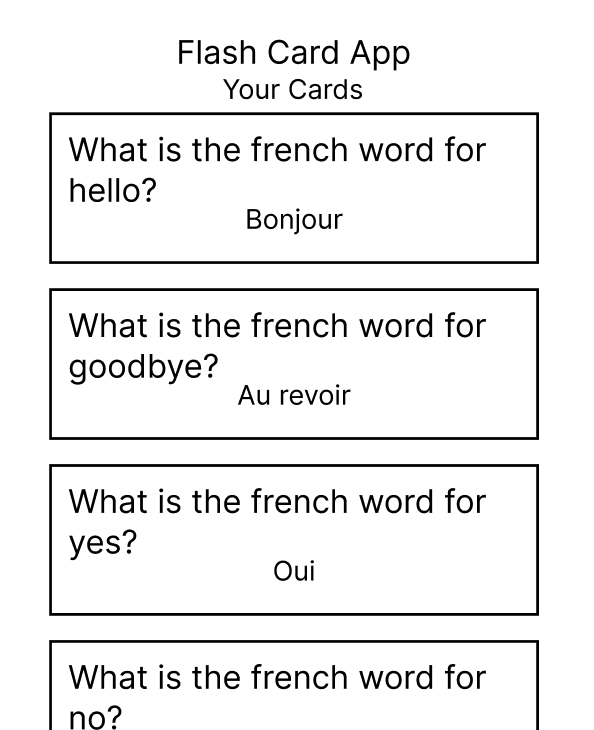
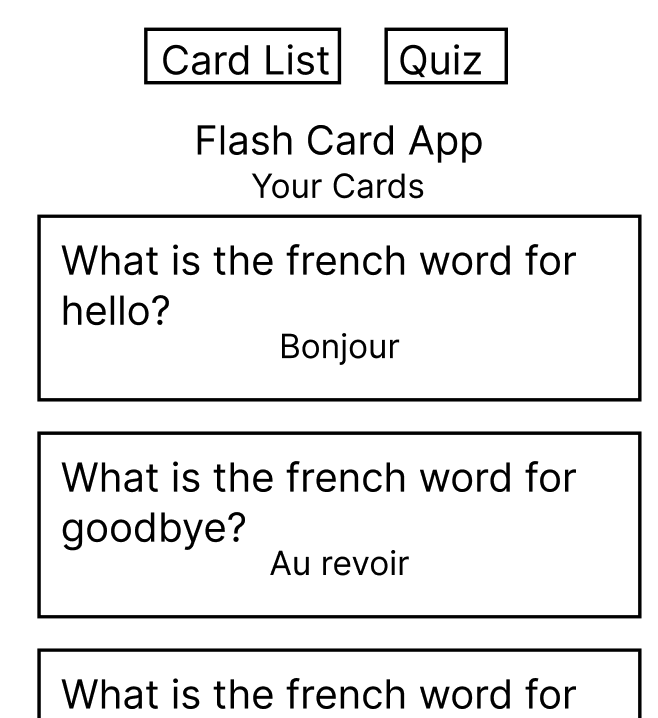
Add link to embed

diff --git a/README.md b/README.md
@@ -7,19 +7,29 @@ Recommended time
 
 ## Coding Goal (45 minutes)
 
-One of [Thought Saver's](app.thoughtsaver.com) core features is Flash Cards. Flash cards are a way of learning, where cards have two sides: a front, e.g. "What is the French word for ‘yes’?", and a back, e.g. "oui".
-Your task is to create a simple flash card app, where users can review cards. There should be two pages:
+One of Thought Saver's core features is flash cards. Flash cards are a way of learning, where cards have two sides: a front, e.g. "What is the French word for ‘yes’?", and a back, e.g. "oui".
+Your task is to create a simplified version of Thought Saver, where users can review cards. It should have the following screens:
 
-1. A list of all the cards, with fronts and backs shown.
-   ![Card List Page](/wireframes/CardListPage.png)
-2. A quiz page, where the user goes through every card in any order. Each card is shown one at a time, in the following steps:
-   - The card front, with one button saying “Reveal Back”
-     ![Quiz Card Front](/wireframes/QuizCardFront.png)
-   - After pressing "Reveal", the card back appears, with two buttons: "Remembered" and "Didn’t remember"
-     ![Quiz Card Front](/wireframes/QuizCardFront.png)
-3. The user goes through all of the cards, pressing ‘remembered’ or ‘didn’t remember’. Once they press ‘remembered’, the card is not shown again. If they press ‘didn’t remember’ the card is sent to the back of the cards that remain to be shown and shown again at the end of the quiz.
-4. Once the cards are all done, the user sees a “Congratulations, you’re done!” screen
-   ![Quiz Finished](/wireframes/QuizFinished.png)
+### Card List
+
+A list of all the cards, with fronts and backs shown, and navigation buttons to go between 'quiz' mode and 'card list' mode
+![Card List Page](/wireframes/CardListPage.png)
+
+### Quiz Page
+
+On clicking 'quiz', go to a quiz page, where the user quizzes on every card. Each card is shown one at a time, in the following steps:
+
+- The card front, with one button saying “Reveal Back”
+  ![Quiz Card Front](/wireframes/QuizCardFront.png)
+- After pressing "Reveal", the card back appears, with two buttons: "Remembered" and "Didn’t remember"
+  ![Quiz Card Front](/wireframes/QuizCardFront.png)
+
+The user goes through all of the cards, pressing ‘remembered’ or ‘didn’t remember’. Once they press ‘remembered’, the card is not shown again. If they press ‘didn’t remember’ the card is sent to the back of the cards that remain to be shown and shown again at the end of the quiz.
+
+Once the cards are all done, the user sees a “Congratulations, you’re done!” screen
+![Quiz Finished](/wireframes/QuizFinished.png)
+
+This is the same as our existing embed feature. [Here](https://app.thoughtsaver.com/embed/SCfLnsdRF8) is a live demo if it helps make this clearer.
 
 ### Further instructions
 
